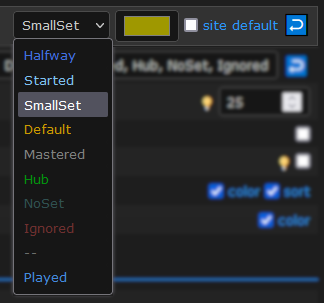
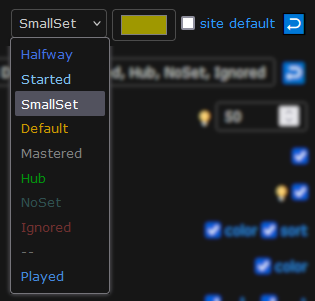
Fix settings page for RAWeb 6.15, updates doc screenshots

diff --git a/RA_ColorMarkGames.user.js b/RA_ColorMarkGames.user.js
@@ -10,7 +10,7 @@
 // @match       https://retroachievements.org/user/*
 // @match       https://retroachievements.org/viewtopic.php?t=*
 // @match       https://retroachievements.org/setRequestList.php?u=*
-// @match       https://retroachievements.org/controlpanel.php*
+// @match       https://retroachievements.org/settings*
 // @match       https://retroachievements.org/system/*/games*
 // @exclude     https://retroachievements.org/user/*/game/*
 // @exclude     https://retroachievements.org/game/*/comments*
@@ -555,83 +555,83 @@ const Pages = (() => {
     })();
 
     const SettingsPage = (() => {
-        const settingsDivHtml = `<div class="component">
-	<h4>Color Mark Games</h4>
-	<table class="table-highlight">
-		<tbody>
-			<tr>
-				<td>Text colors</td>
-				<td style="text-align: right;">
-					<select id="colorSelect"></select>
-					<input id="colorPicker" type="color" style="vertical-align: middle;">
-					<label><input id="defaultColorCheckbox" type="checkbox"> site default</label>
-					<div id="resetColorIcon" class="icon" title="reset element to script default" style="cursor: pointer; font-size: 1.5em; vertical-align: sub;">↩</div>
-				</td>
-			</tr>
-			<tr>
-				<td>Sort order</td>
-				<td style="text-align: right;">
-					<div class="icon" title="Set to empty value to ignore sorting" style="cursor: help;">💡</div>
-					<input id="sortOrderInput" type="text" size="55">
-					<div id="resetOrderIcon" class="icon" title="reset to default" style="cursor: pointer; font-size: 1.5em; vertical-align: sub;">↩</div>
-				</td>
-			</tr>
-			<tr>
-				<td>Small set threshold</td>
-				<td style="text-align: right;">
-					<div class="icon" title="Set to 0 to keep with Default group" style="cursor: help;">💡</div>
-					<input id="smallSetThrInput" type="number" min="0" style="width: 7em;"/>
-				</td>
-			</tr>
-			<tr>
-				<td>Show progress for 100% unlocks</td>
-				<td style="text-align: right;">
-					<input id="show100ProgressCheckbox" type="checkbox"/>
-				</td>
-			</tr>
-			<tr>
-				<td>Use hardcore progression</td>
-				<td style="text-align: right;">
-					<div class="icon" title="Reload Profile page for the change to take effect" style="cursor: help;">💡</div>
-					<input id="useHardcoreCheckbox" type="checkbox"/>
-				</td>
-			</tr>
-			<tr>
-				<td>Game lists with progress bars <div class="icon" title="Hubs, console game lists and dev sets lists" style="cursor: help;">💡</div></td>
-				<td style="text-align: right;">
-					<label><input id="colorHubsCheckbox" type="checkbox"/> color</label>
-                    <label><input id="sortHubsCheckbox" type="checkbox"/> sort</label>
-				</td>
-			</tr>
-			<tr>
-				<td>Completion progress <div class="icon" title="Other users completion progress pages" style="cursor: help;">💡</div></td>
-				<td style="text-align: right;">
-					<label><input id="colorProgressCheckbox" type="checkbox"/> color</label>
-				</td>
-			</tr>
-			<tr>
-				<td>User set requests</td>
-				<td style="text-align: right;">
-					<label><input id="colorSetRequestsCheckbox" type="checkbox"/> color</label>
-                    <label><input id="sortSetRequestsCheckbox" type="checkbox"/> sort</label>
-				</td>
-			</tr>
-			<tr>
-				<td>Ignore buttons <div class="icon" title="Add button to add/remove game from ignore list" style="cursor: help;">💡</div></td>
-				<td style="text-align: right;">
-					<label><input id="gameIgnoreButtonCheckbox" type="checkbox"/> game page</label>
-                    <label><input id="hubIgnoreButtonsCheckbox" type="checkbox"/> hub pages</label>
-				</td>
-			</tr>
-		</tbody>
-	</table>
+        const settingsDivHtml = `<div class="text-card-foreground rounded-lg border border-embed-highlight bg-embed shadow-sm w-full">
+  <div class="flex flex-col space-y-1.5 p-6 pb-4">
+    <h4 class="mb-0 border-b-0 text-2xl font-semibold leading-none tracking-tight">Color Mark Games</h4>
+  </div>
+  <form><div class="p-6 pt-0"><table><tbody class="[&>tr>td]:!px-0 [&>tr>td]:py-2 [&>tr>th]:!px-0 [&>tr]:!bg-embed">
+    <tr>
+      <th scope="row">Text colors</th>
+      <td style="text-align: right;">
+        <select id="colorSelect"></select>
+        <input id="colorPicker" type="color" style="vertical-align: middle;">
+        <label><input id="defaultColorCheckbox" type="checkbox"> site default</label>
+        <div id="resetColorIcon" class="icon" title="reset element to script default" style="cursor: pointer; font-size: 1.5em; vertical-align: sub;">↩</div>
+      </td>
+    </tr>
+    <tr>
+      <th scope="row">Sort order</th>
+      <td style="text-align: right;">
+        <div class="icon" title="Set to empty value to ignore sorting" style="cursor: help;">💡</div>
+        <input id="sortOrderInput" type="text" size="55">
+        <div id="resetOrderIcon" class="icon" title="reset to default" style="cursor: pointer; font-size: 1.5em; vertical-align: sub;">↩</div>
+      </td>
+    </tr>
+    <tr>
+      <th scope="row">Small set threshold</th>
+      <td style="text-align: right;">
+        <div class="icon" title="Set to 0 to keep with Default group" style="cursor: help;">💡</div>
+        <input id="smallSetThrInput" type="number" min="0" style="width: 7em;"/>
+      </td>
+    </tr>
+    <tr>
+      <th scope="row">Show progress for 100% unlocks</th>
+      <td style="text-align: right;">
+        <input id="show100ProgressCheckbox" type="checkbox"/>
+      </td>
+    </tr>
+    <tr>
+      <th scope="row">Use hardcore progression</th>
+      <td style="text-align: right;">
+        <div class="icon" title="Reload Profile page for the change to take effect" style="cursor: help;">💡</div>
+        <input id="useHardcoreCheckbox" type="checkbox"/>
+      </td>
+    </tr>
+    <tr>
+      <th scope="row">Game lists with progress bars <div class="icon" title="Hubs, console game lists and dev sets lists" style="cursor: help;">💡</div></th>
+      <td style="text-align: right;">
+        <label><input id="colorHubsCheckbox" type="checkbox"/> color</label>
+                  <label><input id="sortHubsCheckbox" type="checkbox"/> sort</label>
+      </td>
+    </tr>
+    <tr>
+      <th scope="row">Completion progress <div class="icon" title="Other users completion progress pages" style="cursor: help;">💡</div></th>
+      <td style="text-align: right;">
+        <label><input id="colorProgressCheckbox" type="checkbox"/> color</label>
+      </td>
+    </tr>
+    <tr>
+      <th scope="row">User set requests</th>
+      <td style="text-align: right;">
+        <label><input id="colorSetRequestsCheckbox" type="checkbox"/> color</label>
+                  <label><input id="sortSetRequestsCheckbox" type="checkbox"/> sort</label>
+      </td>
+    </tr>
+    <tr>
+      <th scope="row">Ignore buttons <div class="icon" title="Add button to add/remove game from ignore list" style="cursor: help;">💡</div></th>
+      <td style="text-align: right;">
+        <label><input id="gameIgnoreButtonCheckbox" type="checkbox"/> game page</label>
+                  <label><input id="hubIgnoreButtonsCheckbox" type="checkbox"/> hub pages</label>
+      </td>
+    </tr>
+  </tbody></table></div></form>
 </div>`
         // default color for links
         const defaultColor = 'var(--link-color)';
 
         const Do = () => {
-            const xpathRes = document.evaluate("//div[h3[text()='Settings']]", document, null, XPathResult.ORDERED_NODE_ITERATOR_TYPE, null);
-            const settingsDiv = xpathRes.iterateNext();
+            const xpathRes = document.evaluate("//div[h3[text()='Preferences']]", document, null, XPathResult.ORDERED_NODE_ITERATOR_TYPE, null);
+            const settingsDiv = xpathRes.iterateNext().parentElement;
             if (settingsDiv == null) return;
 
             const newDiv = document.createElement('div');
@@ -754,7 +754,7 @@ const Pages = (() => {
         setRequestList: SetRequests.Do,
         progress: Progress.Do,
         viewtopic: Forum.Do,
-        controlpanel: SettingsPage.Do,
+        settings: SettingsPage.Do,
         gameSearch: GameList.Hardest
     };
 })();
